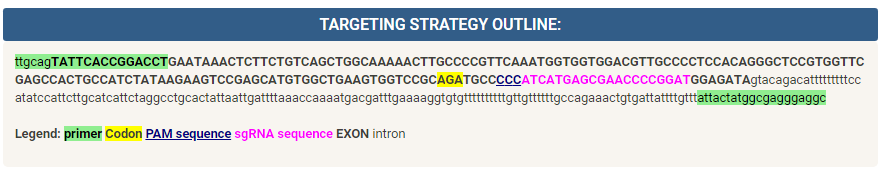
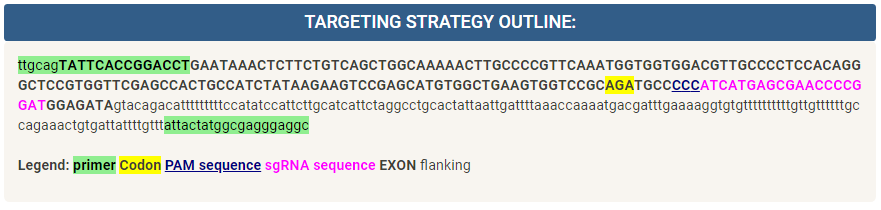
First exon alignment improvements

diff --git a/instructions.html b/instructions.html
@@ -52,7 +52,7 @@
 
 
 <h3>Results</h3>
-<p style="font-size: 16px">This tab contains the <strong>TARGETING STRATEGY OUTLINE</strong> section showing the location of site assay primers in the exon and flanking sequences, exon and intron sequences within the site assay amplicon, guide RNA and PAM location and target codon. An example of a targeting strategy outline is shown in the figure below:</p>
+<p style="font-size: 16px">This tab contains the <strong>TARGETING STRATEGY OUTLINE</strong> section showing the location of site assay primers, exon and flanking sequences (such as intron, promoter or intergenic regions) within the site assay amplicon, guide RNA and PAM location and target codon. An example of a targeting strategy outline is shown in the figure below:</p>
 
 <figure>
 	<img src="targeting_strategy.PNG" width="900" style="text-align:center; display:block;"/>
